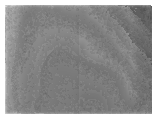
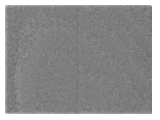
added new picture and replaced erroneous picture

diff --git a/report/Report.tex b/report/Report.tex
@@ -218,12 +218,22 @@ In order to avoid large computation times on the embedded device it is important
  \label{sub:results_of_calibration}
  After performing the calculations described above we are left with 19200 look up tables (one for each pixel), each of these contain the real depth value for a given depth measurement. This correction lookup was applied to the point cloud data of uninterrupted planes. The results are very good, Figure~\ref{fig:beforeAfter} shows the point cloud data before and after correction, where both images are produced by subtracting the images average distance from all pixels and setting the dynamic range to be from -10\% of the average to +10\%. Therefore an ideal image of a plane should be a pure grey. As you can see the image before has a large area of distortion in the upper right hand corner, this is almost completely removed after correction. Table~\ref{tab:averages} shows the average distance measured over the whole plane for a range of measurements and their respective corrections, this shows that we have also corrected effectively for the absolute inaccuracy found with the Xtion sensor. 
 
+ Figure~\ref{fig:outputTest} shows very clearly how important the calibration of the sensor was. The camera took the data points while pointing at a flat wall, a small section of orthogonal flat wall is also visible. Pre-calibration the walls are curved and the data points describing them are dispersed, this would make finding planes very difficult. After processing the image shows the walls being properly orthogonal and flat. Also the grouping of the data points to the surface is much better.
+
+
 \begin{figure}[htb]
 \centering     %%% not \center
 \subfloat[Before correction]{\label{fig:preflat8}\includegraphics[width=60mm]{preflat8}} \,\,\,\,
 \subfloat[After correction]{\label{fig:postflat8}\includegraphics[width=60mm]{postflat8}}
 \caption{Example of the correction function in action. Images show divergence from the measurements average distance, white is +10\% and black is -10\% of the average respectively.}
 \label{fig:beforeAfter}
+\end{figure}
+ \begin{figure}[htb]
+\centering     %%% not \center
+\subfloat[Before processing]{\label{fig:NewBeforeMatlab}\includegraphics[width=60mm]{NewBeforeMatlab.PNG}} \,\,\,\,
+\subfloat[After processing]{\label{fig:NewAfterMatlab}\includegraphics[width=60mm]{NewAfterMatlab}}
+\caption{A demonstration of the correction removing curvature from the Xtion data}
+\label{fig:outputTest}
 \end{figure}
 
 \begin{figure}[htb]
